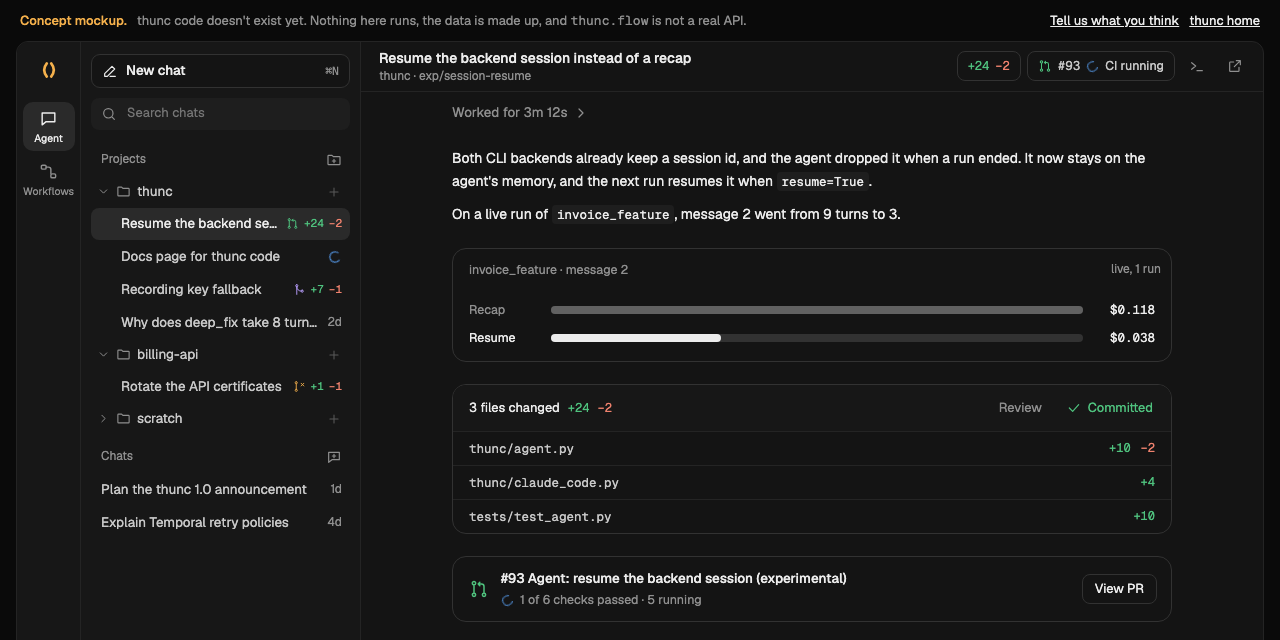
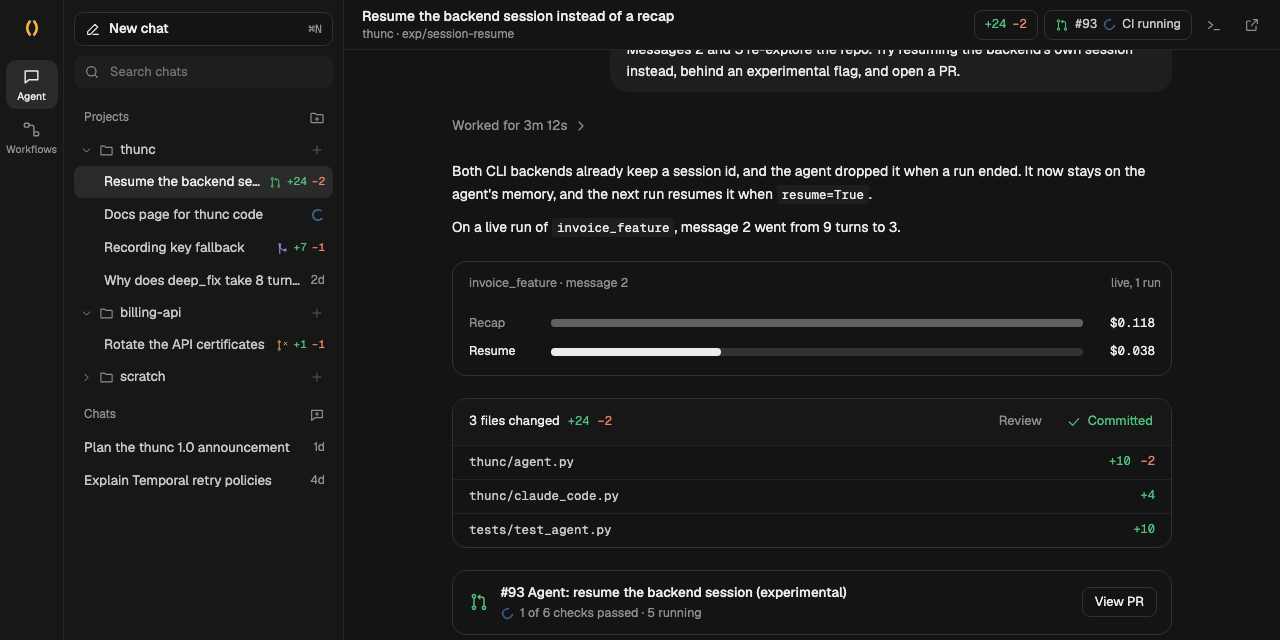
Site: show the thunc code mockup full-bleed
Drop the notice bar and the window frame, so the page is only the mockup.
The social card is re-rendered to match.

diff --git a/docs/code/index.html b/docs/code/index.html
@@ -79,11 +79,8 @@
 }
 
 html,body{height:100%}
-.notice{display:flex;align-items:center;gap:10px;flex-wrap:wrap;font-size:13px;color:var(--muted);padding:0 4px}
-.notice a{color:var(--fg)}
-.notice b{color:var(--brand);font-weight:500}
-body{margin:0;display:flex;flex-direction:column;gap:10px;background:var(--ground);color:var(--fg);font:14px/1.45 var(--ui);box-sizing:border-box;
-  padding-block:12px;padding-left:max(16px, env(safe-area-inset-left, 0px));padding-right:max(16px, env(safe-area-inset-right, 0px))}
+body{margin:0;display:flex;flex-direction:column;background:var(--bg);color:var(--fg);font:14px/1.45 var(--ui);box-sizing:border-box;
+  padding:env(safe-area-inset-top, 0px) env(safe-area-inset-right, 0px) env(safe-area-inset-bottom, 0px) env(safe-area-inset-left, 0px)}
 *{box-sizing:border-box}
 button,input,textarea,select{font:inherit;color:inherit}
 button{cursor:pointer}
@@ -95,7 +92,7 @@ svg.i{width:16px;height:16px;fill:none;stroke:currentColor;stroke-width:1.8;stro
 .brandmark{width:28px;height:28px;flex:none}
 .brandmark path{fill:none;stroke:var(--brand);stroke-width:6;stroke-linecap:round}
 
-.app{flex:1;min-height:560px;display:flex;background:var(--bg);border:1px solid var(--line);border-radius:12px;overflow:hidden}
+.app{flex:1;min-height:0;display:flex;background:var(--bg);overflow:hidden}
 .rail{flex:0 0 64px;display:flex;flex-direction:column;align-items:center;gap:4px;padding:14px 0 12px;background:var(--side);border-right:1px solid var(--line)}
 .rail .brandmark{margin-bottom:14px}
 .rail-btn{display:flex;flex-direction:column;align-items:center;gap:3px;width:52px;padding:7px 0 5px;border:0;border-radius:10px;background:transparent;color:var(--muted);font-size:10.5px}
@@ -388,7 +385,6 @@ svg.i{width:16px;height:16px;fill:none;stroke:currentColor;stroke-width:1.8;stro
 </style>
 </head>
 <body>
-<p class="notice" style="margin:0"><b>Concept mockup.</b><span>thunc code doesn't exist yet. Nothing here runs, the data is made up, and <code class="mono">thunc.flow</code> is not a real API.</span><span style="flex:1"></span><a href="https://github.com/Eltarras/thunc/discussions/84">Tell us what you think</a><a href="/thunc/">thunc home</a></p>
 
 <div class="app">
   <nav class="rail" aria-label="Modes">
